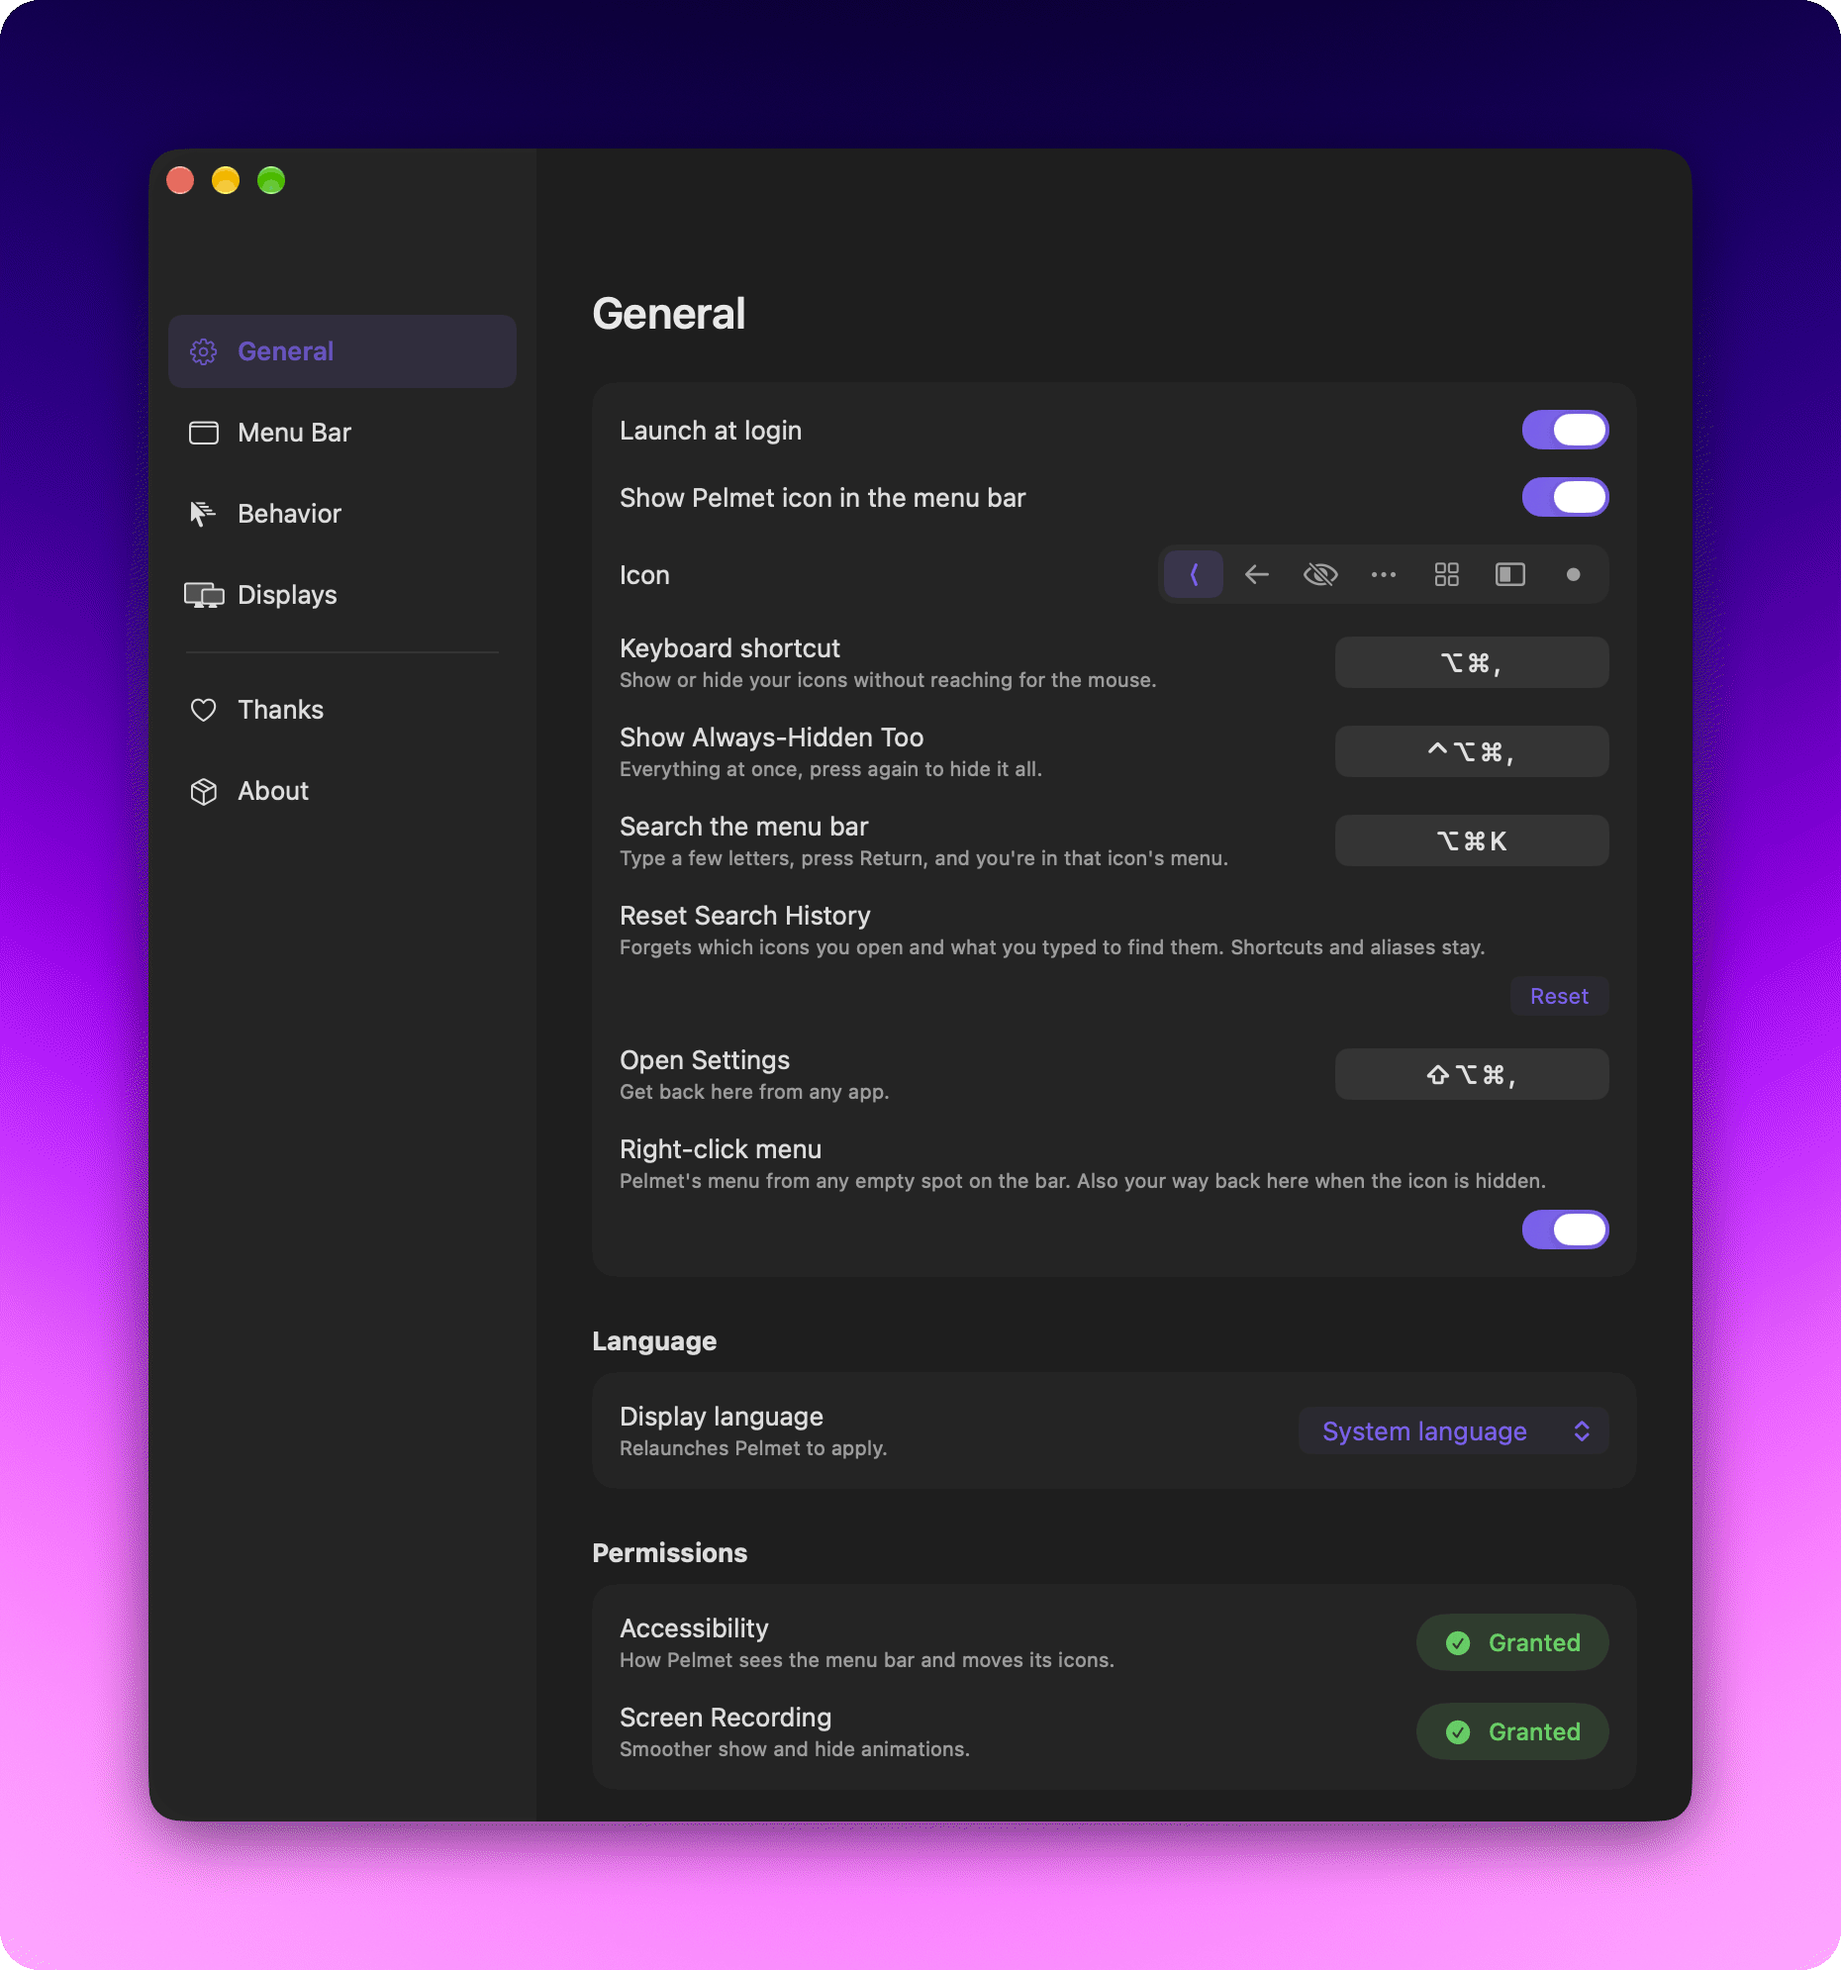
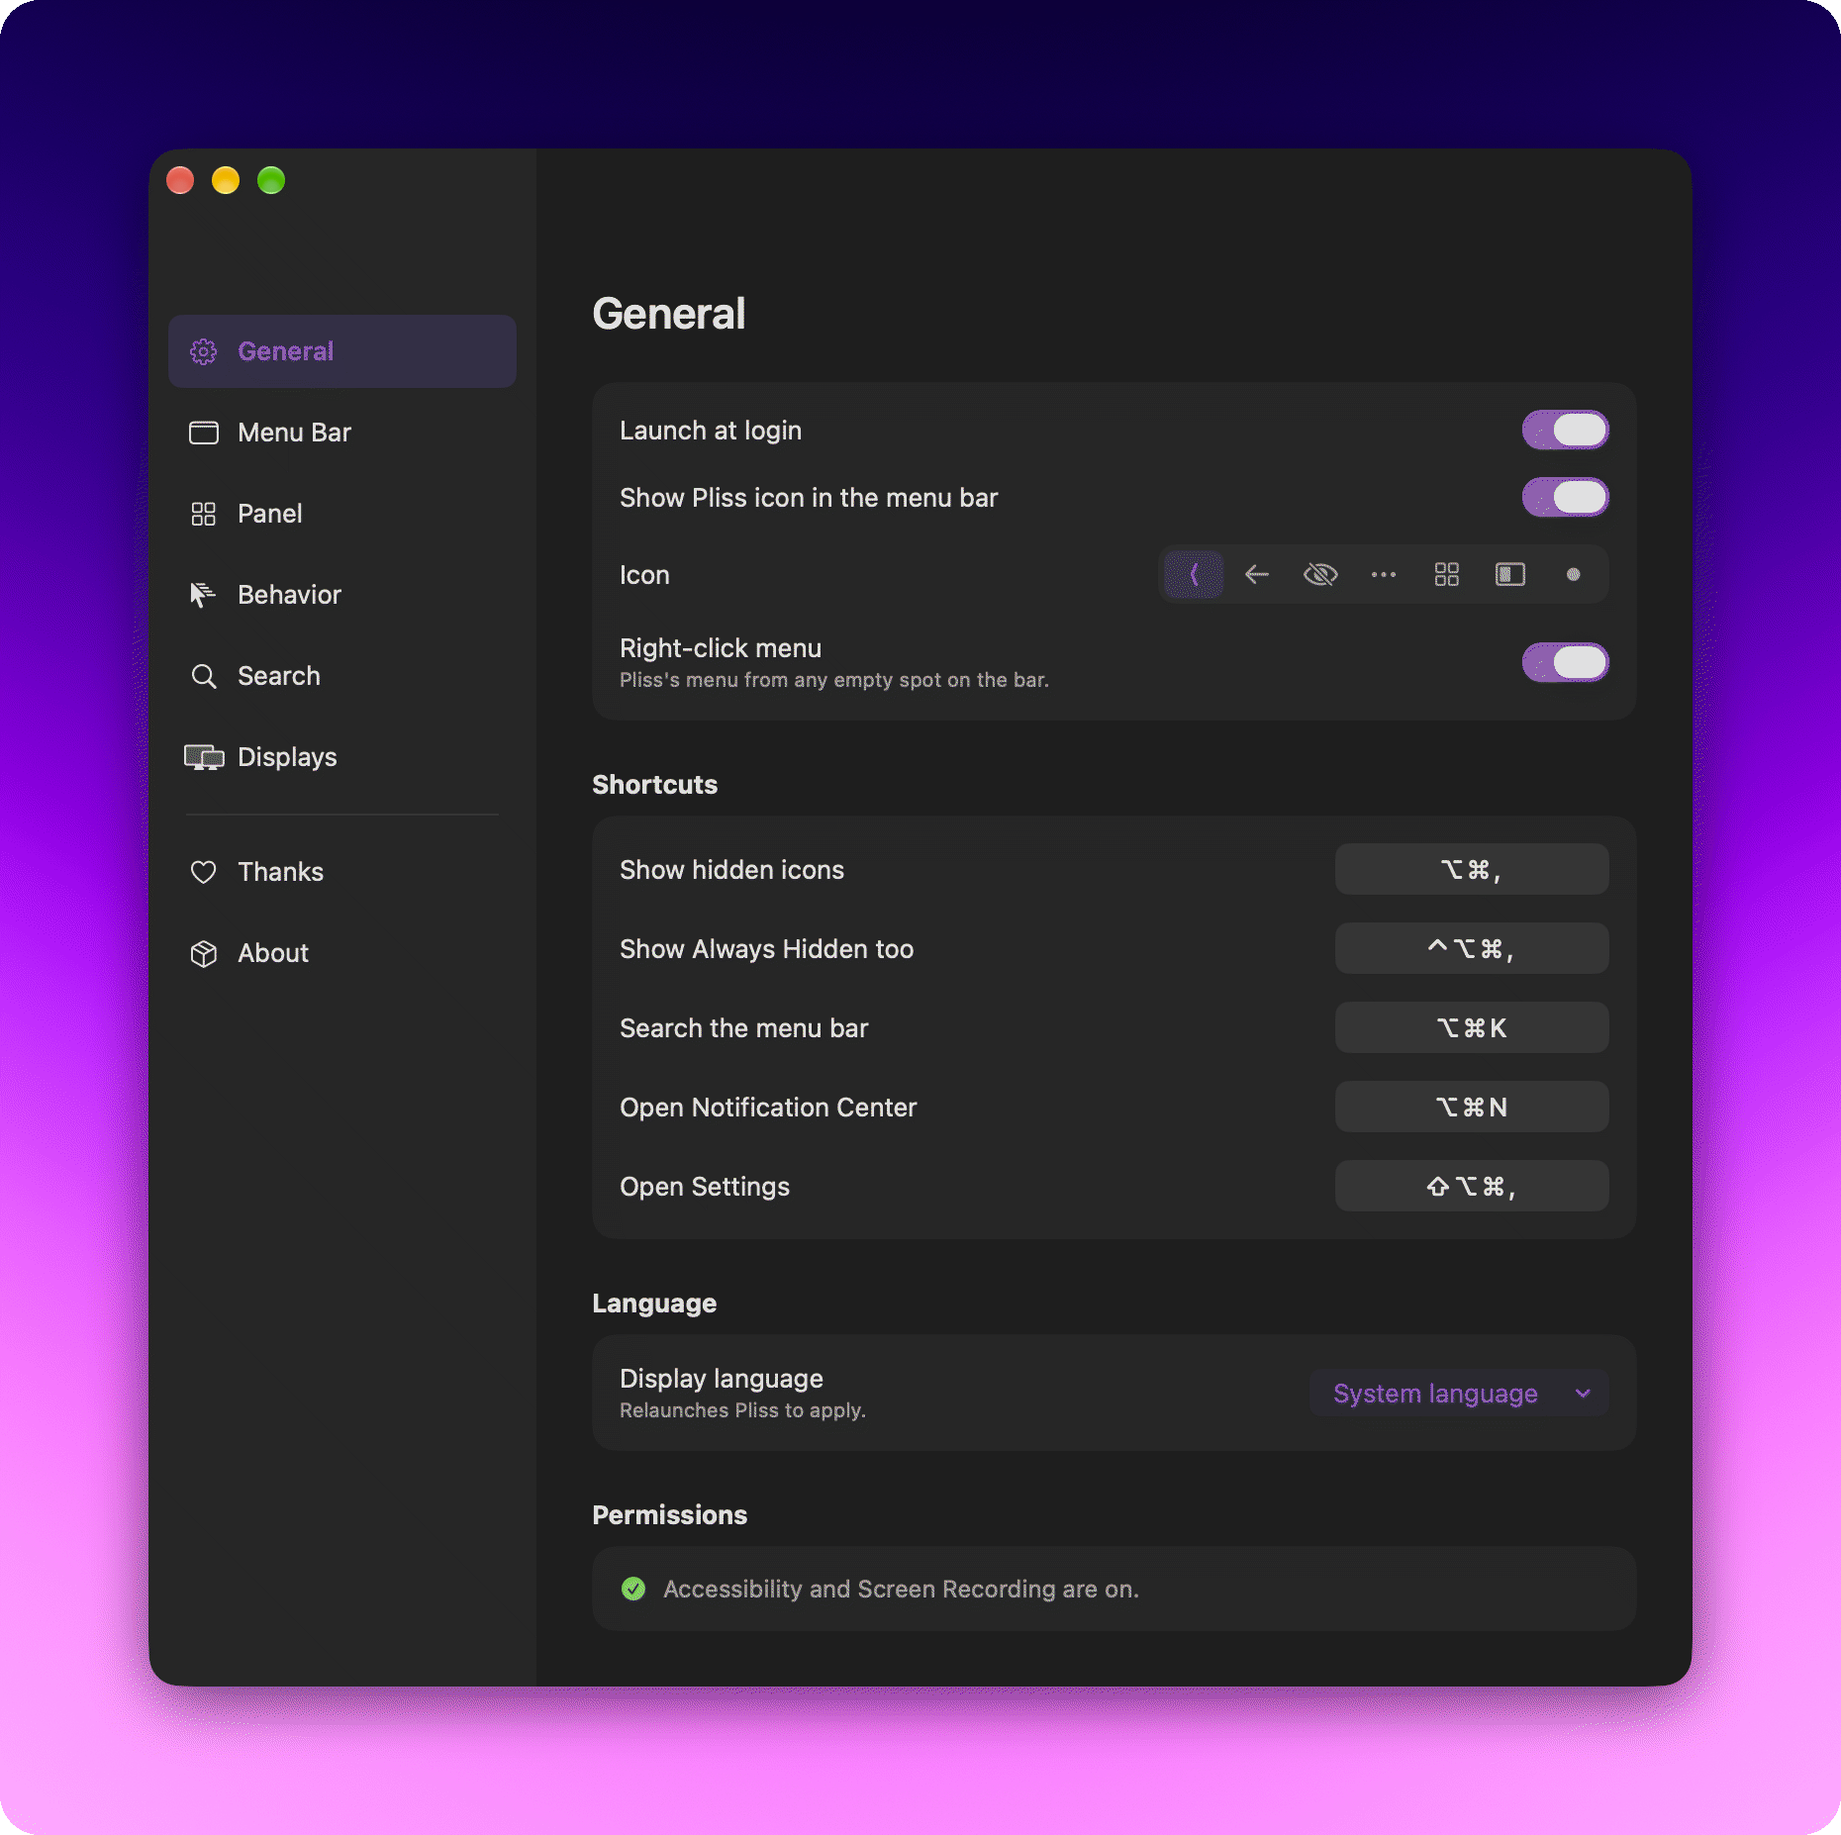
README: Behavior and General Settings shots re-captured from Pliss 0.3.2-beta.7, dark and light, alt text describes the new panes — 2026-10-14

diff --git a/README.md b/README.md
@@ -74,7 +74,7 @@ seconds) or the moment you click somewhere else.
 <p align="center">
   <picture>
     <source media="(prefers-color-scheme: light)" srcset="docs/assets/screenshot-settings-light.png">
-    <img src="docs/assets/screenshot-settings.png" alt="Behavior pane: Instant/Smooth/Fade animation cards with a live preview, the icon spacing slider, reveal on hover with a stepped delay slider, click and double-click reveals, auto-rehide after a stepped delay, system extras and the Notification Center shortcut" width="640">
+    <img src="docs/assets/screenshot-settings.png" alt="Behavior pane: Instant, Smooth and Fade animation cards with a live preview, the icon spacing slider with its Apply button, Reveal on hover with a delay menu, reveal on click in empty space and double-click for Always Hidden, Hide again after a delay you pick or when you click elsewhere, and the Notification Center clock click" width="640">
   </picture><br>
   <sub>Your rules for revealing, and for putting everything back.</sub>
 </p>
@@ -149,7 +149,7 @@ stays on your Mac. New in 0.3.1.
 <p align="center">
   <picture>
     <source media="(prefers-color-scheme: light)" srcset="docs/assets/screenshot-general-light.png">
-    <img src="docs/assets/screenshot-general.png" alt="General settings: launch at login, the menu bar icon toggle with seven icon styles, the keyboard shortcuts, display language picker, Accessibility and Screen Recording permission status" width="640">
+    <img src="docs/assets/screenshot-general.png" alt="General settings: launch at login, the menu bar icon toggle with seven icon styles, the right-click menu, a Shortcuts card (show hidden icons, show Always Hidden too, search the menu bar, open Notification Center, open Settings), the display language picker and the Accessibility and Screen Recording permission status" width="640">
   </picture><br>
   <sub>General. Pick the icon Pelmet wears, or your language.</sub>
 </p>
